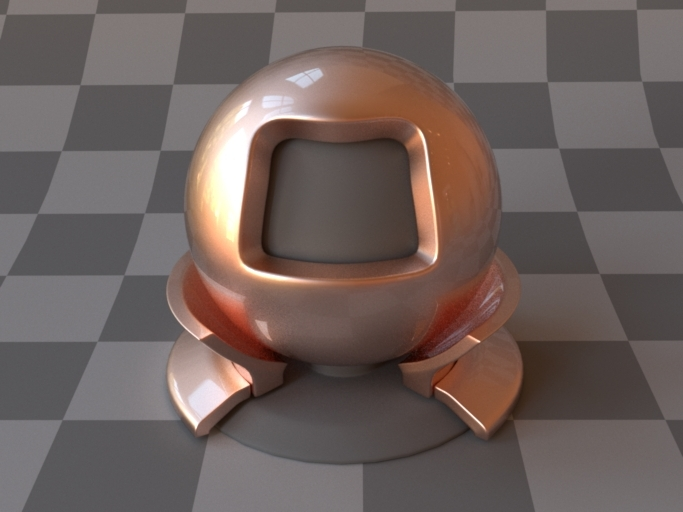
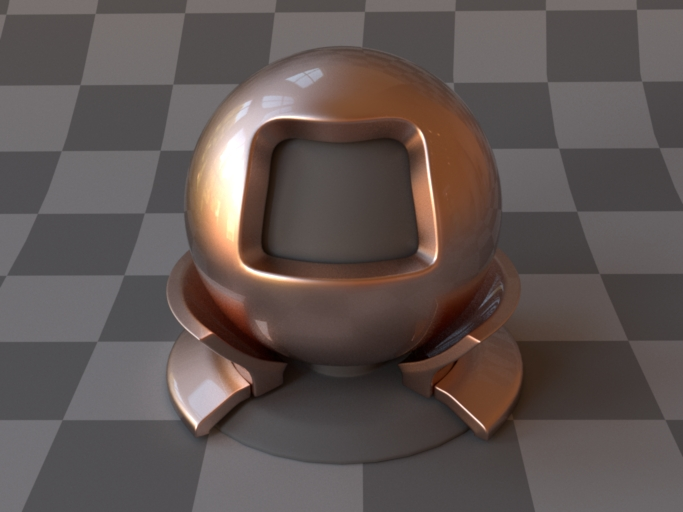
BSDFs now flag spatially varying components

Changed region(s): [[0.246, 0.0938, 0.7379, 0.8438], [0.5842, 0.5, 0.7687, 0.8438]]

diff --git a/src/bsdfs/coating.cpp b/src/bsdfs/coating.cpp
@@ -30,37 +30,44 @@ MTS_NAMESPACE_BEGIN
  *      numerically or using a known material name. \default{\texttt{bk7} / 1.5046}}
  *     \parameter{extIOR}{\Float\Or\String}{Exterior index of refraction specified
  *      numerically or using a known material name. \default{\texttt{air} / 1.000277}}
- *     \parameter{sigmaA}{\Spectrum\Or\Texture}{Absorption coefficient within the layer. \default{0}}
- *     \parameter{thickness}{\Float}{Thickness of the absorbing layer (given in inverse units of \code{sigmaA})\default{1}}
+ *     \parameter{thickness}{\Float}{Denotes the thickness of the absorbing layer (given in inverse units of \code{sigmaA})\default{1}}
+ *     \parameter{sigmaA}{\Spectrum\Or\Texture}{The absorption coefficient of the coating layer. \default{0, i.e. there is no absorption}}
  * }
  * 
  * \renderings{
- *     \rendering{Coated rough copper (lower exposure, \lstref{coating-roughcopper})}
+ *     \rendering{Rough copper}
+ *         {bsdf_roughconductor_copper}
+ *     \rendering{The same material coated with a single layer of clear varnish (see \lstref{coating-roughcopper})}
  *         {bsdf_coating_roughconductor}
- *     \rendering{Coated rough plastic}
- *         {bsdf_coating_roughplastic}
  * }
  *
- * This plugin implements a smooth dielectric coating in the style of the
- * paper ``Arbitrarily Layered Micro-Facet Surfaces'' by Weidlich and 
- * Wilkie \cite{Weidlich2007Arbitrarily}. Any non-transmissive model can
- * be coated, and multiple layers can be applied in sequence. This allows
- * designing custom materials like car paint.
+ * This plugin implements a smooth dielectric coating (e.g. a layer of varnish) 
+ * in the style of the paper ``Arbitrarily Layered Micro-Facet Surfaces'' by 
+ * Weidlich and Wilkie \cite{Weidlich2007Arbitrarily}. Any non-transmissive
+ * BSDF in Mitsuba can be coated using this plugin, and multiple coating layers
+ * can be applied in sequence. This allows designing interesting custom materials 
+ * like car paint or glazed metal foil. The coating layer can optionally be 
+ * tinted (i.e. filled with an absorbing medium), in which case this model also 
+ * accounts for the directionally dependent absorption within the layer.
  *
- * The coating layer can optionally be filled with an absorbing medium, 
- * in which case this model also accounts for the directionally dependent
- * extinction within the layer.
+ * Note that the plugin discards illumination that undergoes internal
+ * reflection within the coating. This can lead to a noticeable energy
+ * loss for materials that reflect much of their energy near or below the critical
+ * angle (i.e. diffuse or very rough materials). 
+ * Therefore, users are discouraged to use this plugin to coat smooth
+ * diffuse materials, since there is a separately available plugin
+ * named \pluginref{smoothplastic}, which covers the same case and does not
+ * suffer from energy loss.
  *
  * Evaluating the internal component of this model entails refracting the 
  * incident and exitant rays through the dielectric interface, followed by
  * querying the nested material with this modified direction pair. The result 
- * is attenuated by the two Fresnel transmittances. Note that this model does
- * not attempt to handle illumination that is reflected by the interior of the 
- * coating---this energy is essentially lost.
+ * is attenuated by the two Fresnel transmittances and the absorption, if any.
  *
  * \vspace{4mm}
  *
- * \begin{xml}[caption=Rough copper coated with a transparent layer of lacquer, label=lst:coating-roughcopper]
+ * \begin{xml}[caption=Rough copper coated with a transparent layer of 
+ *     varnish, label=lst:coating-roughcopper]
  * <bsdf type="coating">
  *     <float name="intIOR" value="1.7"/>
  *     <bsdf type="roughconductor">
@@ -79,13 +86,13 @@ public:
 
 		/* Specifies the external index of refraction at the interface */
 		m_extIOR = lookupIOR(props, "extIOR", "air");
-		
-		/* Specifies the absorption within the layer */
-		m_sigmaA = new ConstantSpectrumTexture(
-			props.getSpectrum("sigmaA", Spectrum(0.0f)));
 
 		/* Specifies the layer's thickness using the inverse units of sigmaA */
 		m_thickness = props.getFloat("thickness", 1);
+
+		/* Specifies the absorption within the layer */
+		m_sigmaA = new ConstantSpectrumTexture(
+			props.getSpectrum("sigmaA", Spectrum(0.0f)));
 	}
 
 	SmoothCoating(Stream *stream, InstanceManager *manager) 
@@ -105,11 +112,26 @@ public:
 			Log(EError, "Tried to put a smooth coating layer on top of a BSDF "
 				"with a transmission component -- this is currently not allowed!");
 
+#if COMPENSATE
+		if (m_nested->getClass()->getName() == "SmoothDiffuse") {
+			/* For an ideally diffuse material, it is known how much 
+			   energy will be lost to total internal reflection */
+			m_compensation = (m_intIOR*m_intIOR) / (m_extIOR * m_extIOR);
+		} else {
+			/* Otherwise, give up (for now) */
+			m_compensation = 1.0f;
+		}
+#endif
+		unsigned int extraFlags = 0;
+		if (!m_sigmaA->isConstant())
+			extraFlags |= ESpatiallyVarying;
+
 		m_components.clear();
 		for (int i=0; i<m_nested->getComponentCount(); ++i) 
-			m_components.push_back(m_nested->getType(i));
+			m_components.push_back(m_nested->getType(i) | extraFlags);
+
 		m_components.push_back(EDeltaReflection | EFrontSide);
-		
+
 		m_usesRayDifferentials = m_nested->usesRayDifferentials()
 			|| m_sigmaA->usesRayDifferentials();
 
@@ -206,9 +228,10 @@ public:
 			if (R12 == 1 || R21 == 1) /* Total internal reflection */
 				return Spectrum(0.0f);
 
+			Float eta = m_extIOR / m_intIOR;
 			Spectrum result = m_nested->eval(bRec2, measure)
-				* ((1-R12) * (1-R21));
-			
+				* ((1-R12) * (1-R21) * eta * eta);
+
 			Spectrum sigmaA = m_sigmaA->getValue(bRec.its) * m_thickness;
 			if (!sigmaA.isZero()) 
 				result *= (-sigmaA *
@@ -216,10 +239,12 @@ public:
 					 1/std::abs(Frame::cosTheta(bRec2.wo)))).exp();
 
 			if (measure == ESolidAngle)
-				result *= Frame::cosTheta(bRec2.wo);
+				result *= Frame::cosTheta(bRec.wo)
+					    / Frame::cosTheta(bRec2.wo);
 
-			Float eta = m_extIOR / m_intIOR;
-			result *= eta * eta;
+#ifdef COMPENSATE
+			result *= m_compensation;
+#endif
 
 			return result;
 		}
@@ -250,9 +275,11 @@ public:
 			if (R12 == 1 || R21 == 1) /* Total internal reflection */
 				return 0.0f;
 		
-			Float pdf = m_nested->pdf(bRec2, measure)
-				* Frame::cosTheta(bRec.wo)
-				/ Frame::cosTheta(bRec2.wo);
+			Float pdf = m_nested->pdf(bRec2, measure);
+
+			if (measure == ESolidAngle)
+				pdf *= Frame::cosTheta(bRec.wo)
+					 / Frame::cosTheta(bRec2.wo);
 
 			Float eta = m_extIOR / m_intIOR;
 			pdf *= eta * eta;
@@ -324,11 +351,16 @@ public:
 
 			if (R21 == 1.0f) /* Total internal reflection */
 				return Spectrum(0.0f);
+			bool sampledSA = (BSDF::getMeasure(bRec.sampledType) == ESolidAngle);
+			Float cosRatio = Frame::cosTheta(bRec.wo) / cosThetaWoPrime,
+				  commonTerms = (sampledSA ? cosRatio : 1.0f)* eta * eta;
 
-			pdf *= (sampleSpecular ? (1 - R12) : 1.0f) * eta * eta *
-				Frame::cosTheta(bRec.wo) / cosThetaWoPrime;
+			pdf *= (sampleSpecular ? (1 - R12) : 1.0f) * commonTerms;
+			result *= (1 - R12) * (1 - R21) * commonTerms;
 
-			result *= (1 - R12) * (1 - R21) * cosThetaWoPrime * eta * eta;
+#ifdef COMPENSATE
+			result *= m_compensation;
+#endif
 
 			return result;
 		}
@@ -358,11 +390,14 @@ public:
 	}
 
 	MTS_DECLARE_CLASS()
-private:
+protected:
 	Float m_intIOR, m_extIOR;
 	ref<Texture> m_sigmaA;
 	ref<BSDF> m_nested;
 	Float m_thickness;
+#ifdef COMPENSATE
+	Float m_compensation;
+#endif
 };
 
 MTS_IMPLEMENT_CLASS_S(SmoothCoating, false, BSDF)

diff --git a/src/bsdfs/roughdielectric.cpp b/src/bsdfs/roughdielectric.cpp
@@ -227,11 +227,16 @@ public:
 						"(named \"as\")");
 		}
 
+		if (!m_alphaU->isConstant() || !m_alphaV->isConstant())
+			extraFlags |= ESpatiallyVarying;
+
 		m_components.clear();
-		m_components.push_back(
-			EGlossyReflection | EFrontSide | EBackSide | ECanUseSampler | extraFlags);
-		m_components.push_back(
-			EGlossyTransmission | EFrontSide | EBackSide | ECanUseSampler | extraFlags);
+		m_components.push_back(EGlossyReflection | EFrontSide
+			| EBackSide | ECanUseSampler | extraFlags 
+			| (m_specularReflectance->isConstant() ? 0 : ESpatiallyVarying));
+		m_components.push_back(EGlossyTransmission | EFrontSide
+			| EBackSide | ECanUseSampler | extraFlags
+			| (m_specularTransmittance->isConstant() ? 0 : ESpatiallyVarying));
 
 		/* Verify the input parameters and fix them if necessary */
 		m_specularReflectance = ensureEnergyConservation(

diff --git a/include/mitsuba/render/bsdf.h b/include/mitsuba/render/bsdf.h
@@ -225,10 +225,12 @@ public:
 		// =============================================================
 		/// The lobe is not invariant to rotation around the normal
 		EAnisotropic          = 0x01000,
+		/// The BSDF depends on the UV coordinates
+		ESpatiallyVarying     = 0x02000,
 		/// Supports interactions on the front-facing side
-		EFrontSide            = 0x02000,
+		EFrontSide            = 0x04000,
 		/// Supports interactions on the back-facing side
-		EBackSide             = 0x04000,
+		EBackSide             = 0x08000,
 		/// Can use an extra sampler instance to improve the sampling method
 		ECanUseSampler        = 0x10000  
 		//! @}
@@ -276,7 +278,7 @@ public:
 	inline unsigned int getType(int component) const {
 		return m_components[component];
 	}
-	
+
 	/**
 	 * \brief Return the measure corresponding to a particular
 	 * component type

diff --git a/src/bsdfs/phong.cpp b/src/bsdfs/phong.cpp
@@ -77,8 +77,11 @@ public:
 
 	void configure() {
 		m_components.clear();
-		m_components.push_back(EGlossyReflection | EFrontSide);
-		m_components.push_back(EDiffuseReflection | EFrontSide);
+		m_components.push_back(EGlossyReflection | EFrontSide |
+			((!m_specularReflectance->isConstant()
+			  || !m_exponent->isConstant()) ? ESpatiallyVarying : 0));
+		m_components.push_back(EDiffuseReflection | EFrontSide
+			| (m_diffuseReflectance->isConstant() ? 0 : ESpatiallyVarying));
 
 		/* Verify the input parameters and fix them if necessary */
 		std::pair<Texture *, Texture *> result = ensureEnergyConservation(
@@ -230,7 +233,7 @@ public:
 	}
 
 	Spectrum sample(BSDFQueryRecord &bRec, const Point2 &sample) const {
-		Float pdf;
+		Float pdf = 0;
 		Spectrum result = Phong::sample(bRec, pdf, sample);
 
 		if (result.isZero())

diff --git a/src/bsdfs/roughplastic.cpp b/src/bsdfs/roughplastic.cpp
@@ -176,8 +176,11 @@ public:
 
 	void configure() {
 		m_components.clear();
-		m_components.push_back(EGlossyReflection | EFrontSide);
-		m_components.push_back(EDiffuseReflection | EFrontSide);
+
+		m_components.push_back(EGlossyReflection | EFrontSide 
+			| (m_specularReflectance->isConstant() ? 0 : ESpatiallyVarying));
+		m_components.push_back(EDiffuseReflection | EFrontSide 
+			| (m_diffuseReflectance->isConstant() ? 0 : ESpatiallyVarying));
 
 		/* Verify the input parameters and fix them if necessary */
 		m_specularReflectance = ensureEnergyConservation(
@@ -357,7 +360,7 @@ public:
 	}
 
 	Spectrum sample(BSDFQueryRecord &bRec, const Point2 &sample) const {
-		Float pdf;
+		Float pdf = 0;
 		Spectrum result = RoughPlastic::sample(bRec, pdf, sample);
 
 		if (result.isZero())

diff --git a/src/bsdfs/mask.cpp b/src/bsdfs/mask.cpp
@@ -83,10 +83,17 @@ public:
 	void configure() {
 		if (!m_nestedBSDF)
 			Log(EError, "A child BSDF is required");
+		
+		unsigned int extraFlags = 0;
+		if (!m_opacity->isConstant())
+			extraFlags |= ESpatiallyVarying;
+
 		m_components.clear();
 		for (int i=0; i<m_nestedBSDF->getComponentCount(); ++i)
-			m_components.push_back(m_nestedBSDF->getType(i));
-		m_components.push_back(EDeltaTransmission | EFrontSide | EBackSide);
+			m_components.push_back(m_nestedBSDF->getType(i) | extraFlags);
+		m_components.push_back(EDeltaTransmission | EFrontSide 
+				| EBackSide | extraFlags);
+
 		m_usesRayDifferentials = m_nestedBSDF->usesRayDifferentials();
 		m_opacity = ensureEnergyConservation(m_opacity, "opacity", 1.0f);
 		BSDF::configure();

diff --git a/src/bsdfs/ward.cpp b/src/bsdfs/ward.cpp
@@ -140,8 +140,11 @@ public:
 			extraFlags |= EAnisotropic;
 
 		m_components.clear();
-		m_components.push_back(EGlossyReflection | EFrontSide | extraFlags);
-		m_components.push_back(EDiffuseReflection | EFrontSide | extraFlags);
+		m_components.push_back(EGlossyReflection | EFrontSide | extraFlags
+			| ((!m_specularReflectance->isConstant() || !m_alphaU->isConstant()
+			  || !m_alphaV->isConstant()) ? ESpatiallyVarying : 0));
+		m_components.push_back(EDiffuseReflection | EFrontSide | extraFlags
+			| (m_diffuseReflectance->isConstant() ? 0 : ESpatiallyVarying));
 
 		/* Verify the input parameters and fix them if necessary */
 		std::pair<Texture *, Texture *> result = ensureEnergyConservation(

diff --git a/src/bsdfs/dielectric.cpp b/src/bsdfs/dielectric.cpp
@@ -176,8 +176,10 @@ public:
 			m_specularTransmittance, "specularTransmittance", 1.0f);
 		
 		m_components.clear();
-		m_components.push_back(EDeltaReflection | EFrontSide | EBackSide);
-		m_components.push_back(EDeltaTransmission | EFrontSide | EBackSide);
+		m_components.push_back(EDeltaReflection | EFrontSide | EBackSide
+			| (m_specularReflectance->isConstant() ? 0 : ESpatiallyVarying));
+		m_components.push_back(EDeltaTransmission | EFrontSide | EBackSide
+			| (m_specularTransmittance->isConstant() ? 0 : ESpatiallyVarying));
 		
 		m_usesRayDifferentials = 
 			m_specularReflectance->usesRayDifferentials() ||

diff --git a/src/bsdfs/roughconductor.cpp b/src/bsdfs/roughconductor.cpp
@@ -205,10 +205,12 @@ public:
 						"anisotropic Ashikhmin-Shirley microfacet distribution "
 						"(named \"as\")");
 		}
+		if (!m_alphaU->isConstant() || !m_alphaV->isConstant() ||
+			!m_specularReflectance->isConstant())
+			extraFlags |= ESpatiallyVarying;
 
 		m_components.clear();
-		m_components.push_back(
-			EGlossyReflection | EFrontSide | extraFlags);
+		m_components.push_back(EGlossyReflection | EFrontSide | extraFlags);
 
 		/* Verify the input parameters and fix them if necessary */
 		m_specularReflectance = ensureEnergyConservation(

diff --git a/src/bsdfs/roughdiffuse.cpp b/src/bsdfs/roughdiffuse.cpp
@@ -107,9 +107,12 @@ public:
 	void configure() {
 		/* Verify the input parameter and fix them if necessary */
 		m_reflectance = ensureEnergyConservation(m_reflectance, "reflectance", 1.0f);
-		
+
 		m_components.clear();
-		m_components.push_back(EGlossyReflection | EFrontSide);
+		m_components.push_back(EGlossyReflection | EFrontSide
+			| ((!m_reflectance->isConstant() || !m_alpha->isConstant())
+			? ESpatiallyVarying : 0));
+
 		m_usesRayDifferentials = m_reflectance->usesRayDifferentials() ||
 			m_alpha->usesRayDifferentials();
 		

diff --git a/src/bsdfs/plastic.cpp b/src/bsdfs/plastic.cpp
@@ -103,8 +103,10 @@ public:
 			m_diffuseReflectance->usesRayDifferentials();
 		
 		m_components.clear();
-		m_components.push_back(EDeltaReflection | EFrontSide);
-		m_components.push_back(EDiffuseReflection | EFrontSide);
+		m_components.push_back(EDeltaReflection | EFrontSide
+			| (m_specularReflectance->isConstant() ? 0 : ESpatiallyVarying));
+		m_components.push_back(EDiffuseReflection | EFrontSide
+			| (m_diffuseReflectance->isConstant() ? 0 : ESpatiallyVarying));
 		
 		BSDF::configure();
 	}

diff --git a/src/bsdfs/mixture.cpp b/src/bsdfs/mixture.cpp
@@ -28,8 +28,8 @@ MTS_NAMESPACE_BEGIN
  *     \parameter{weights}{\String}{A comma-separated list of BSDF weights}
  * }
  * \renderings{
- *     \rendering{An exemplary combination of BSDFs 
- *     (\lstref{mixture-example})}{bsdf_mixture_test}
+ *     \rendering{An admittedly not particularly realistic linear combination of
+ *     diffuse and specular BSDFs (\lstref{mixture-example})}{bsdf_mixture_test}
  * }
  *
  * This plugin implements a ``mixture'' material, which represents  
